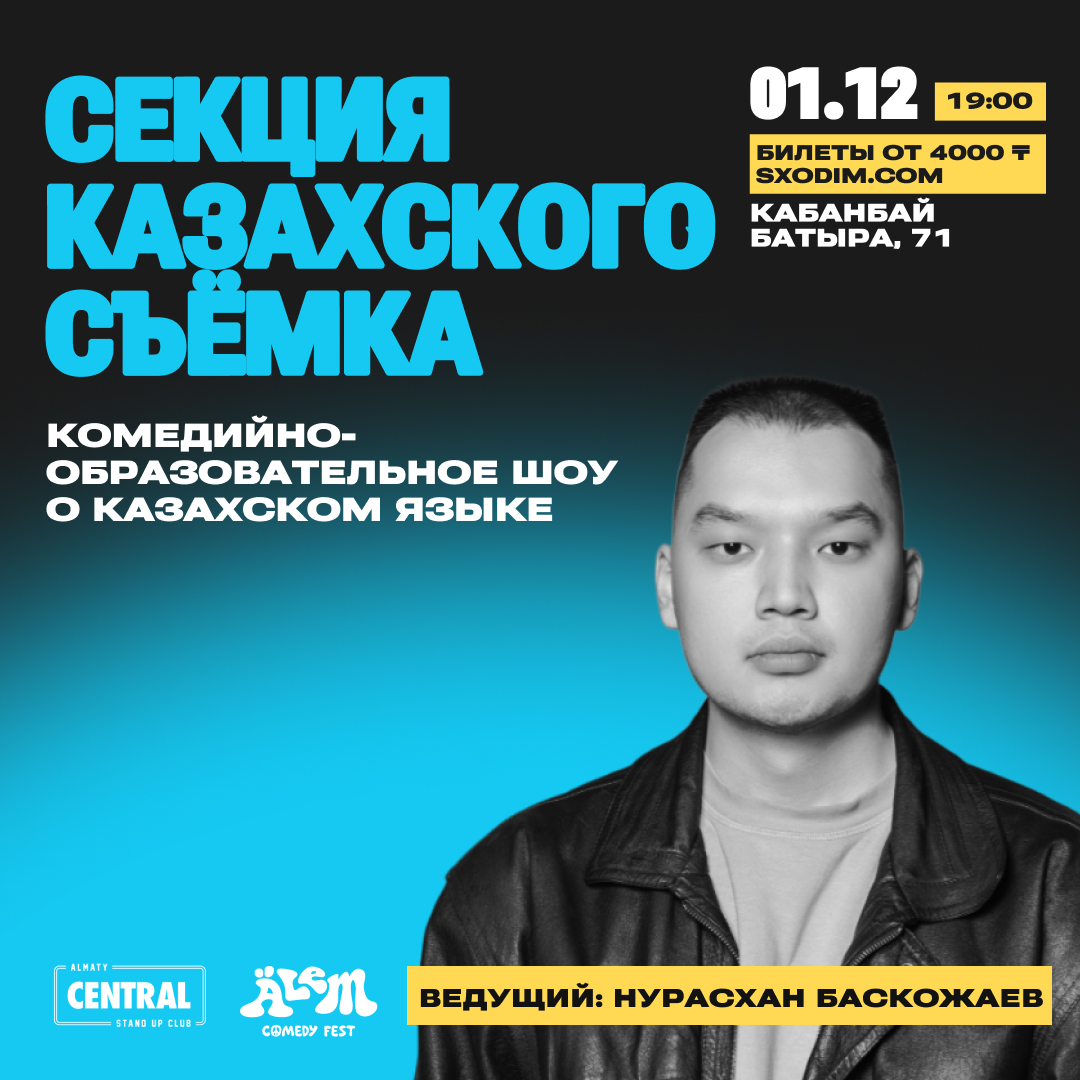
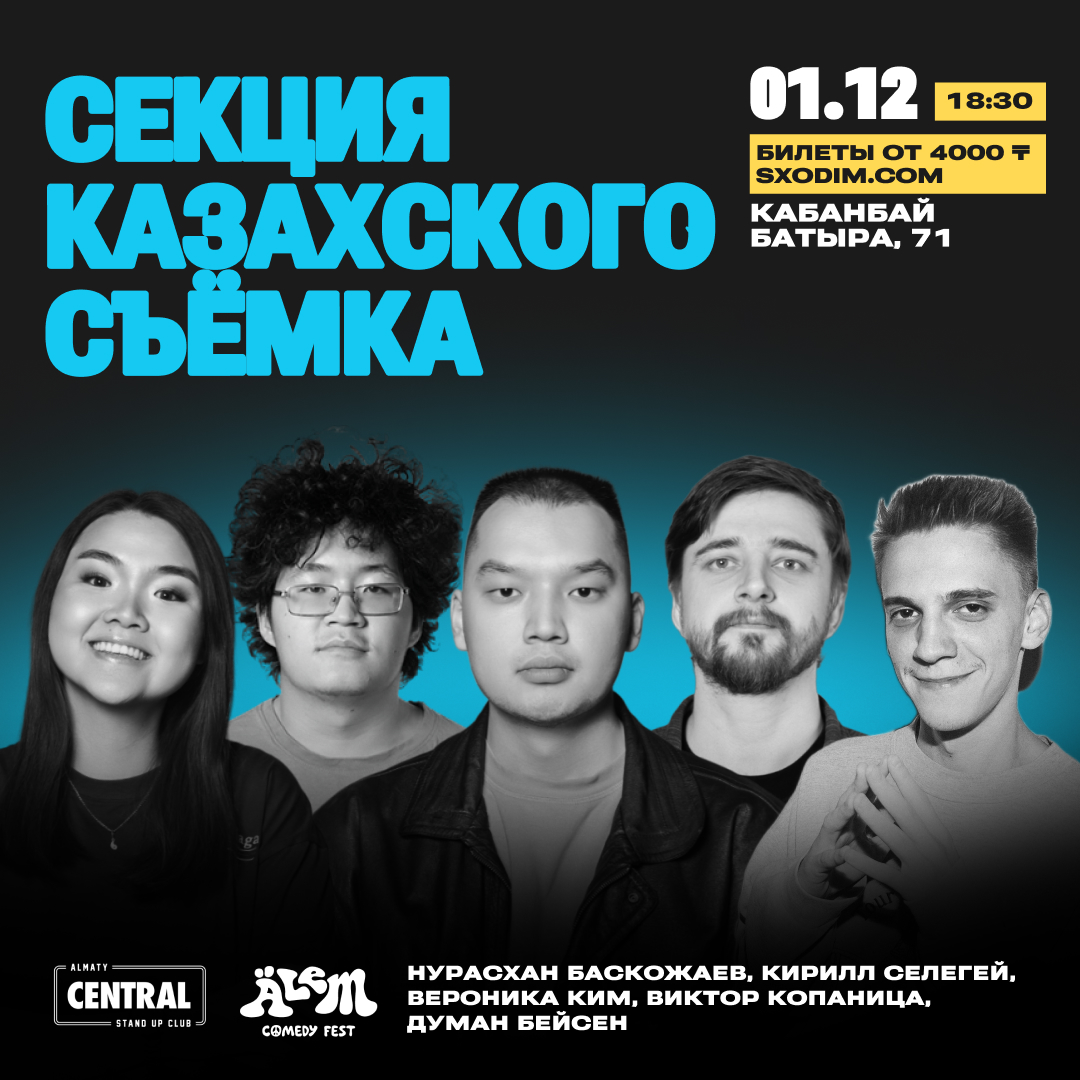
new images

diff --git a/src/helpers/events.js b/src/helpers/events.js
@@ -4,10 +4,11 @@ export const eventsInfo = [
 	{
 		id: 1,
 		date: "1 декабря",
-		time: "20:00",
+		time: "19:00",
 		location: "Coffee House Grain",
 		address: "ул. Курмангазы, 97",
 		price: "донат от 1000 ₸",
+		img: images.moneyMike4,
 		name: "Money Mic",
 		link: "https://almaty.qtickets.events/92626-denezhnyy-mikrofon",
 	},
@@ -61,6 +62,7 @@ export const eventsInfo = [
 		location: "Grain House",
 		address: "ул. Курмангазы, 97",
 		price: "3000 ₸",
+		img: images.double2,
 		name: "Концерт: Руслан Тай и Арсен Алтыбаев",
 		link: "https://sxodim.com/almaty/event/dvoynoy-stendap-koncert-ruslana-taya-i-arsena-altybaeva",
 	},
@@ -87,7 +89,7 @@ export const eventsInfo = [
 	{
 		id: 10,
 		date: "1 декабря",
-		time: "19:00",
+		time: "18:30",
 		location: "Almaty Central Stand-Up Club",
 		address: "ул. Кабанбай батыра, 71",
 		price: "4000 ₸",
@@ -162,7 +164,7 @@ export const eventsInfo = [
 	{
 		id: 17,
 		date: "1 декабря",
-		time: "21:00",
+		time: "20:30",
 		location: "Almaty Central Stand-Up Club",
 		address: "ул. Кабанбай батыра, 71",
 		price: "4000 ₸",
@@ -234,17 +236,17 @@ export const eventsInfo = [
 	// 	name: "Прожарка",
 	// 	link: "",
 	// },
-	// {
-	// 	id: 23,
-	// 	date: "1 декабря",
-	// 	time: "23:30",
-	// 	location: "Almaty Central Stand-Up Club",
-	// 	address: "ул. Кабанбай батыра, 71",
-	// 	img: images.RoastBattle3,
-	// 	price: "от 1000 ₸",
-	// 	name: "Прожарка",
-	// 	link: "",
-	// },
+	{
+		id: 23,
+		date: "1 декабря",
+		time: "22:30",
+		location: "Almaty Central Stand-Up Club",
+		address: "ул. Кабанбай батыра, 71",
+		img: images.roastBattle4,
+		price: "от 1000 ₸",
+		name: "Прожарка",
+		link: "",
+	},
 	{
 		id: 24,
 		date: "1 декабря",
@@ -379,8 +381,9 @@ export const eventsInfo = [
 		location: "Цугцванг",
 		address: "ул. Толе би, 49",
 		price: "донат от 1000 ₸",
+		img: images.west,
 		name: "Stand up концерт ”Западный Казахстан”",
-		link: "",
+		link: "https://almaty.qtickets.events/92890-stand-up-zapadnyy-kazakhstan",
 	},
 	{
 		id: 37,
@@ -389,6 +392,7 @@ export const eventsInfo = [
 		location: "Almaty Central Stand-Up Club",
 		address: "ул. Кабанбай батыра, 71",
 		price: "от 3000 ₸",
+		img: images.adult,
 		name: "Взрослый stand up",
 		link: "",
 	},
@@ -410,6 +414,7 @@ export const eventsInfo = [
 		location: "Black Box",
 		address: "ул. Кабанбай батыра, 71",
 		price: "4000 ₸",
+		// img: images.roastBattle5,
 		name: "Прожарка звезды",
 		link: "",
 	},
@@ -471,6 +476,7 @@ export const eventsInfo = [
 		time: "18:00",
 		location: "Almaty Central Stand-Up Club",
 		address: "ул. Кабанбай батыра, 71",
+		img: images.aitpa,
 		price: "5000 ₸",
 		name: "Aitpa: Live",
 		link: "",
@@ -520,10 +526,11 @@ export const eventsInfo = [
 	{
 		id: 50,
 		date: "3 декабря",
-		time: "18:30",
+		time: "22:30",
 		location: "Almaty Central Stand-Up Club",
 		address: "ул. Кабанбай батыра, 71",
 		price: "4000 ₸",
+		// img: images.roastBattle6,
 		name: "Прожарка звезды",
 		link: "",
 	},
@@ -545,6 +552,7 @@ export const eventsInfo = [
 		location: "Black Box",
 		address: "ул. Кабанбай батыра, 71",
 		price: "от 5000 ₸",
+		img: images.aitpa2,
 		name: "Aitpa: Live",
 		link: "",
 	},
@@ -595,7 +603,7 @@ export const eventsInfo = [
 		time: "20:30",
 		location: "Almaty Central Stand-Up Club",
 		address: "ул. Кабанбай батыра, 71",
-		price: "от 1000 ₸",
+		price: "3000 ₸",
 		img: images.moneyMike3,
 		name: "Money mic: финал",
 		link: "https://sxodim.com/almaty/event/denezhnyy-mikrofon-final",
@@ -635,9 +643,55 @@ export const eventsInfo = [
 		time: "22:30",
 		location: "Almaty Central Stand-Up Club",
 		address: "ул. Кабанбай батыра, 71",
-		price: "5000 ₸",
+		img: images.roastBattle5,
+		price: "от 1000 ₸",
 		name: "Биржан Кабылбаев и Шынгыс Ермек: двойной stand up концерт",
-		link: "l",
+		link: "",
+	},
+
+	{
+		id: 62,
+		date: "3 декабря",
+		time: "22:00",
+		location: "Almaty Central Stand-Up Club",
+		address: "ул. Кабанбай батыра, 71",
+		img: images.roastBattle6,
+		price: "от 1000 ₸",
+		name: "Прожарка",
+		link: "",
+	},
+	{
+		id: 63,
+		date: "3 декабря",
+		time: "22:00",
+		location: "Black Box",
+		address: "ул. Кабанбай батыра, 71",
+		price: "от 4000 ₸",
+		img: images.roast,
+		name: "Прожарка Азамата Маркленова",
+		link: "",
+	},
+	{
+		id: 64,
+		date: "2 декабря",
+		time: "22:00",
+		location: "Ray Stand-Up Pub",
+		address: "ул. Нурмакова, 51а",
+		price: "от 4000 ₸",
+		img: images.double,
+		name: "Прожарка Азамата Маркленова",
+		link: "https://sxodim.com/almaty/event/dvoynoy-stendap-koncert-kirill-selegey-i-nurgun-atakov",
+	},
+	{
+		id: 65,
+		date: "2 декабря",
+		time: "22:30",
+		location: "Almaty Central Stand-Up Club",
+		address: "ул. Кабанбай батыра, 71",
+		// img: images.roastBattle5,
+		price: "от 5000 ₸",
+		name: "Биржан Кабылбаев и Шынгыс Ермек: двойной stand up концерт",
+		link: "",
 	},
 ];
 const addressesByLocation = [
@@ -700,9 +754,10 @@ console.log(eventsByAddress);
 
 // Now, eventsByAddress contains the desired structure
 export const eventsInfoMain = [
-	{ id: 1, img: images.formatKazakh, name: "Секция Казахского" },
+	{ id: 1, img: images.formatKimura, name: "Кимура Шоу" },
 	{ id: 2, img: images.formatTurk, name: "Тюркский разговорник" },
-	{ id: 3, img: images.formatKimura, name: "Кимура Шоу" },
+	{ id: 3, img: images.formatKazakh, name: "Секция Казахского" },
+	{ id: 4, img: images.formatAitpa, name: "Aitpa: Live" },
 ];
 
 eventsInfo.sort((a, b) => {

diff --git a/src/assets/images/images.js b/src/assets/images/images.js
@@ -43,6 +43,7 @@ import kazakhSession2 from "./kazakhSession2.jpg";
 import formatKazakh from "./formatKazakh.jpg";
 import formatTurk from "./formatTurk.jpg";
 import formatKimura from "./formatKimura.jpg";
+import formatAitpa from "./formatAitpa.jpg";
 import orWhat from "./orWhat.jpg";
 import roastBattle from "./roastBattle.png";
 import moneyMike from "./moneyMike.jpg";
@@ -57,6 +58,18 @@ import englishMike2 from "./englishMike2.jpg";
 import kimura from "./kimura.jpg";
 import dayMike from "./dayMike.jpg";
 import roastBattle3 from "./roastBattle3.png";
+import roastBattle4 from "./roastBattle4.png";
+import roastBattle5 from "./roastBattle5.png";
+import roastBattle6 from "./roastBattle6.png";
+import roast from "./roast.png";
+import adult from "./adult.jpg";
+import aitpa from "./aitpa.jpg";
+import aitpa2 from "./aitpa2.jpg";
+import double from "./double.jpg";
+import double2 from "./double2.jpg";
+import west from "./west.jpg";
+import moneyMike4 from "./moneyMike4.jpg";
+
 export default {
 	whatsapp,
 	telegram,
@@ -108,6 +121,7 @@ export default {
 	moneyMike,
 	moneyMike2,
 	moneyMike3,
+	moneyMike4,
 	barbarianMike,
 	northKazakhstan,
 	roastBattle2,
@@ -117,4 +131,15 @@ export default {
 	kimura,
 	dayMike,
 	roastBattle3,
+	roastBattle4,
+	roastBattle5,
+	roastBattle6,
+	adult,
+	roast,
+	aitpa,
+	aitpa2,
+	formatAitpa,
+	double,
+	double2,
+	west,
 };

diff --git a/src/components/Carousel/Carousel.jsx b/src/components/Carousel/Carousel.jsx
@@ -48,35 +48,13 @@ const Carousel = () => {
 			<button onClick={() => slider?.current?.slickNext()}>Next</button> */}
 			<Slider {...settings}>
 				<div className="box">
-					<img src={images.image_carousel_1} alt="slider image 2" />
+					<img src={images.image_carousel_5} alt="slider image 6" />
 				</div>
 				<div className="box">
-					<img src={images.image_carousel_2} alt="slider image 3" />
+					<img src={images.image_carousel_6} alt="slider image 7" />
 				</div>
 				<div className="box">
-					<img src={images.image_carousel_3} alt="slider image 4" />
-				</div>
-
-				<div className="box">
-					<img
-						src={images.image_carousel_5}
-						loading="lazy"
-						alt="slider image 6"
-					/>
-				</div>
-				<div className="box">
-					<img
-						src={images.image_carousel_6}
-						loading="lazy"
-						alt="slider image 7"
-					/>
-				</div>
-				<div className="box">
-					<img
-						src={images.image_carousel_7}
-						loading="lazy"
-						alt="slider image 8"
-					/>
+					<img src={images.image_carousel_7} alt="slider image 8" />
 				</div>
 				<div className="box">
 					<img

diff --git a/src/App.jsx b/src/App.jsx
@@ -9,7 +9,7 @@ function App() {
 			<Navbar />
 			<AppRouter />
 			<Footer />
-			{/* <ScrollToTop /> */}
+			<ScrollToTop />
 		</div>
 	);
 }
